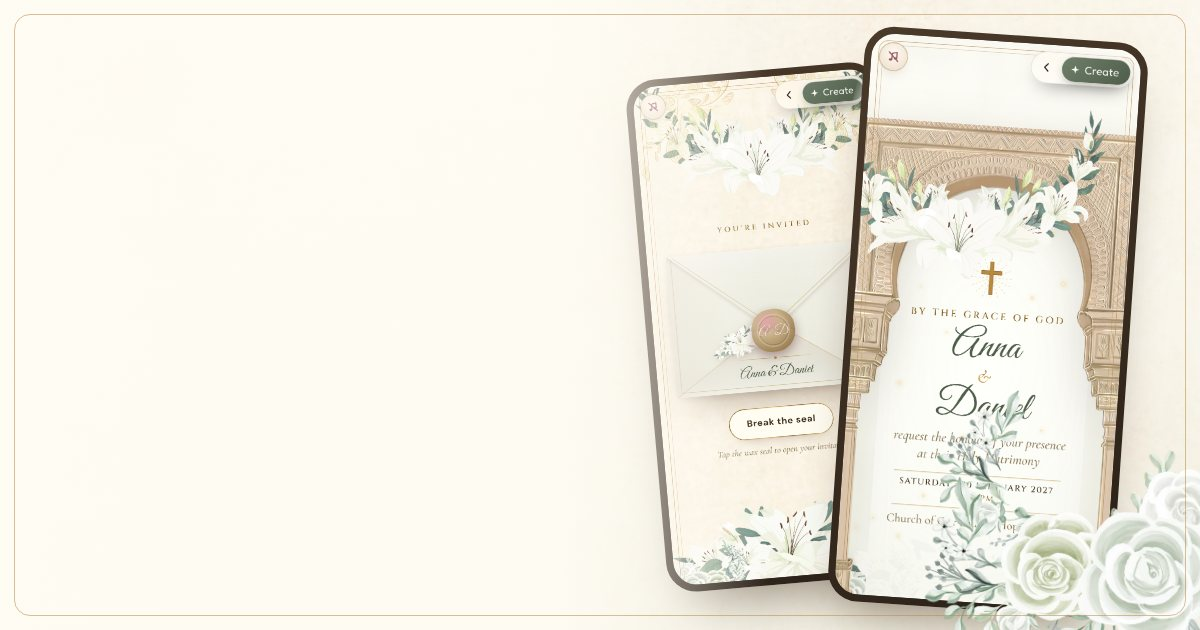
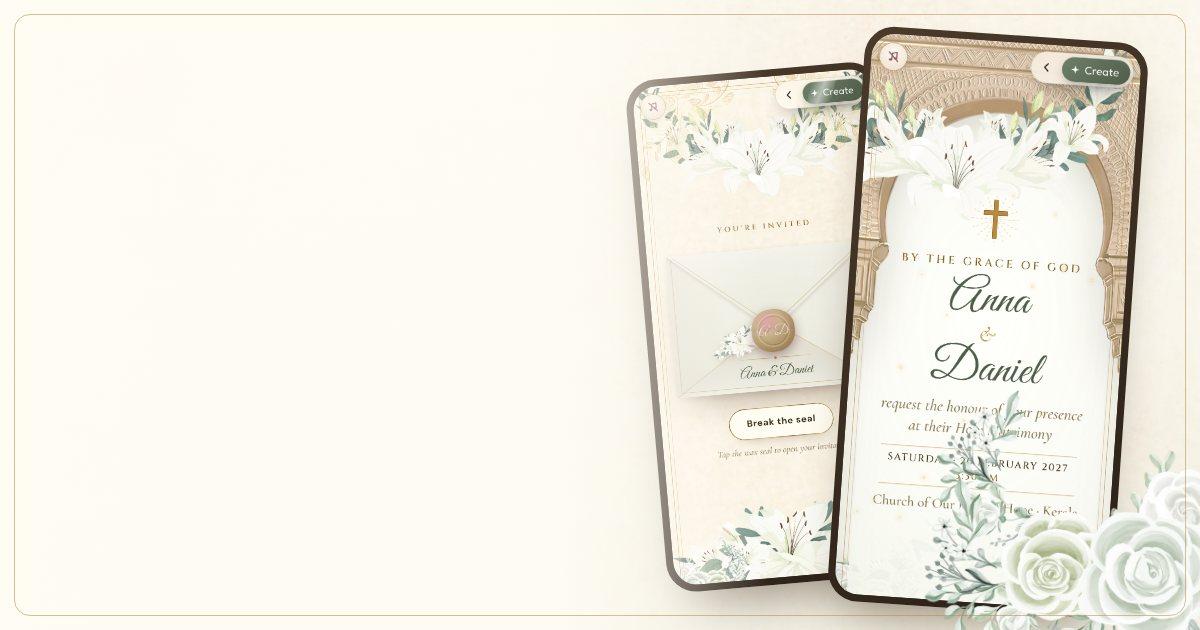
Faith weddings: true full-screen heroes and finales on phones, whole flanking arches on desktop
- Phones: the Nikah and Anand Karaj arches are lengthened (a feathered
  repeat of their plain pillar/side band: mn-arch-tall, sk-arch-tall) so the
  doorway runs the full height of the screen; the names stack and the type
  scales up to fill it. The chapel arch stands full height too.
- The last page wears the hero's whole scene (wall, floor, flanking arches,
  urns) full screen on every device; the goodbye sits in the arch and the
  seal is pressed onto it at a per-faith height.
- Desktop Nikah: the two jharokhas are shown whole (sized to the room beside
  the great arch), with soft fades at top and bottom; urns centred in them.
- Covers regenerated as cover3.* (CDN caches immutably).

Changed region(s): [[0.6783, 0.0302, 0.9558, 0.9349]]

diff --git a/app/(templates)/_faith/Hero.tsx b/app/(templates)/_faith/Hero.tsx
@@ -18,7 +18,7 @@
 // listener writes --fw-hy for a gentle parallax exit; loops pause off screen.
 
 import { useEffect, useMemo, useRef, type ReactNode } from "react";
-import { useWeddingReducedMotion } from "../_wedding";
+import { cdn, useWeddingReducedMotion } from "../_wedding";
 import { seeded, useArt, usePic } from "./art";
 import type { FaithId, Lang, Strings } from "./types";
 
@@ -72,12 +72,22 @@ export interface HeroSceneProps {
 /** The arched card with its copy (the hero; the finale wears a quieter copy of it). */
 export function HeroCard({ faith, s, lang, first, second, guest, dateLine, time, venue, invocation, lazy, as = "h1", copy }: HeroSceneProps) {
   const pic = usePic();
+  const art = useArt();
   const Names = as;
   const high = !lazy;
   return (
     <div className="fh-card">
-      {/* eslint-disable-next-line @next/next/no-img-element, jsx-a11y/alt-text */}
-      <img className="fh-card-bg" {...pic("heroBg", { high, lazy, sizes: "(min-width: 1024px) 560px, 94vw" })} />
+      {art.heroBgTall ? (
+        // Phones get the arch with lengthened pillars, so the doorway runs the full height of the screen.
+        <picture>
+          <source media="(max-width: 1023px)" srcSet={cdn(art.heroBgTall.src)} width={art.heroBgTall.w} height={art.heroBgTall.h} />
+          {/* eslint-disable-next-line jsx-a11y/alt-text */}
+          <img className="fh-card-bg" {...pic("heroBg", { high, lazy, sizes: "(min-width: 1024px) 700px, 100vw" })} />
+        </picture>
+      ) : (
+        // eslint-disable-next-line @next/next/no-img-element, jsx-a11y/alt-text
+        <img className="fh-card-bg" {...pic("heroBg", { high, lazy, sizes: "(min-width: 1024px) 560px, 94vw" })} />
+      )}
       {/* eslint-disable-next-line @next/next/no-img-element, jsx-a11y/alt-text */}
       {faith === "christian" && <img className="fh-crown" {...pic("heroCrown", { high, lazy, sizes: "(min-width: 1024px) 620px, 100vw" })} />}
       <span className="fh-glow is-l" aria-hidden />
@@ -126,14 +136,46 @@ export function HeroCard({ faith, s, lang, first, second, guest, dateLine, time,
   );
 }
 
+/** The faith's full-screen world behind the arch: the wall, the floor, the flanking arches, urns, garlands
+ *  and corner florals (the hero, and the last page, which wears the same scene). */
+export function Scene({ lazy }: { lazy?: boolean }) {
+  const pic = usePic();
+  const art = useArt();
+  const L = lazy ? { lazy: true } : {};
+  return (
+    <>
+      <span className="fw-frame" aria-hidden />
+      <span className="fh-wall" aria-hidden />
+      <span className="fh-floor" aria-hidden />
+      <div className="fh-bank" aria-hidden>
+        {/* eslint-disable-next-line @next/next/no-img-element, jsx-a11y/alt-text */}
+        {art.heroFlank && <img className="fh-flank is-l" {...pic("heroFlank", { ...L, sizes: "40vw" })} />}
+        {/* eslint-disable-next-line @next/next/no-img-element, jsx-a11y/alt-text */}
+        {art.heroFlank && <img className="fh-flank is-r" {...pic("heroFlank", { ...L, sizes: "40vw" })} />}
+        {/* eslint-disable-next-line @next/next/no-img-element, jsx-a11y/alt-text */}
+        {art.heroTop && <img className="fh-top" {...pic("heroTop", { ...(lazy ? L : { high: true }), sizes: "100vw" })} />}
+        {/* eslint-disable-next-line @next/next/no-img-element, jsx-a11y/alt-text */}
+        {art.heroSide && <img className="fh-side is-l" {...pic("heroSide", { ...L, sizes: "22vw" })} />}
+        {/* eslint-disable-next-line @next/next/no-img-element, jsx-a11y/alt-text */}
+        {art.heroSide && <img className="fh-side is-r" {...pic("heroSide", { ...L, sizes: "22vw" })} />}
+        {/* eslint-disable-next-line @next/next/no-img-element, jsx-a11y/alt-text */}
+        {art.heroBank && <img className="fh-base" {...pic("heroBank", { ...L, sizes: "100vw" })} />}
+        {/* eslint-disable-next-line @next/next/no-img-element, jsx-a11y/alt-text */}
+        <img className="fh-corner is-l" {...pic("corner", { ...L, sizes: "30vw" })} />
+        {/* eslint-disable-next-line @next/next/no-img-element, jsx-a11y/alt-text */}
+        <img className="fh-corner is-r" {...pic("cornerR", { ...L, sizes: "30vw" })} />
+      </div>
+
+    </>
+  );
+}
+
 export interface HeroProps extends Omit<HeroSceneProps, "lazy" | "as"> {
   open: boolean;
 }
 
 export default function Hero(p: HeroProps) {
   const { open, faith, s } = p;
-  const pic = usePic();
-  const art = useArt();
   const ref = useRef<HTMLElement>(null);
   const reduce = useWeddingReducedMotion();
   const motes = useMemo(() => {
@@ -169,27 +211,7 @@ export default function Hero(p: HeroProps) {
 
   return (
     <header ref={ref} className={`fw-hero fh-hero is-${faith}${open ? " is-open" : ""}`}>
-      <span className="fw-frame" aria-hidden />
-      <span className="fh-wall" aria-hidden />
-      <span className="fh-floor" aria-hidden />
-      <div className="fh-bank" aria-hidden>
-        {/* eslint-disable-next-line @next/next/no-img-element, jsx-a11y/alt-text */}
-        {art.heroFlank && <img className="fh-flank is-l" {...pic("heroFlank", { sizes: "40vw" })} />}
-        {/* eslint-disable-next-line @next/next/no-img-element, jsx-a11y/alt-text */}
-        {art.heroFlank && <img className="fh-flank is-r" {...pic("heroFlank", { sizes: "40vw" })} />}
-        {/* eslint-disable-next-line @next/next/no-img-element, jsx-a11y/alt-text */}
-        {art.heroTop && <img className="fh-top" {...pic("heroTop", { high: true, sizes: "100vw" })} />}
-        {/* eslint-disable-next-line @next/next/no-img-element, jsx-a11y/alt-text */}
-        {art.heroSide && <img className="fh-side is-l" {...pic("heroSide", { sizes: "22vw" })} />}
-        {/* eslint-disable-next-line @next/next/no-img-element, jsx-a11y/alt-text */}
-        {art.heroSide && <img className="fh-side is-r" {...pic("heroSide", { sizes: "22vw" })} />}
-        {/* eslint-disable-next-line @next/next/no-img-element, jsx-a11y/alt-text */}
-        {art.heroBank && <img className="fh-base" {...pic("heroBank", { sizes: "100vw" })} />}
-        {/* eslint-disable-next-line @next/next/no-img-element, jsx-a11y/alt-text */}
-        <img className="fh-corner is-l" {...pic("corner", { sizes: "30vw" })} />
-        {/* eslint-disable-next-line @next/next/no-img-element, jsx-a11y/alt-text */}
-        <img className="fh-corner is-r" {...pic("cornerR", { sizes: "30vw" })} />
-      </div>
+      <Scene />
 
       <div className="fh-stage">
         <div className="fh-par">

diff --git a/app/(templates)/_faith/faiths/muslim.ts b/app/(templates)/_faith/faiths/muslim.ts
@@ -153,24 +153,43 @@ const css = `
    floor at full height, flanked on wide screens by two cream jharokha arches with urns of roses in them. */
 .fh-hero.is-muslim { --fh-w: min(100vw, calc((100svh - var(--fh-top)) * .806)); --fh-wall-bg: #dce3cf; --fh-wall: ${JAALI} center top / 72px 72px repeat, radial-gradient(120% 90% at 50% 35%, #eff2e6 0%, #dde4d0 55%, #c8d3b7 100%); --fh-floor: linear-gradient(180deg, rgba(246,243,231,0), #f1ecda 30%, #e6dec6); --fh-floor-h: 13svh; --fh-flank-h: 76svh; }
 .fh-hero.is-muslim .fh-top { width: max(100%, 980px); top: -2%; opacity: 0; }
-/* the panels' straight top edges melt into the jaali wall */
-.fh-hero.is-muslim .fh-card-bg { -webkit-mask-image: linear-gradient(180deg, transparent 0, #000 7%); mask-image: linear-gradient(180deg, transparent 0, #000 7%); }
-.fh-hero.is-muslim .fh-flank { -webkit-mask-image: linear-gradient(180deg, transparent 0, #000 16%); mask-image: linear-gradient(180deg, transparent 0, #000 16%); }
+/* the panels' straight top and bottom edges melt softly into the wall and the floor */
+.fh-hero.is-muslim .fh-card-bg { -webkit-mask-image: linear-gradient(180deg, transparent 0, #000 6%, #000 97%, rgba(0,0,0,.6) 100%); mask-image: linear-gradient(180deg, transparent 0, #000 6%, #000 97%, rgba(0,0,0,.6) 100%); }
+.fh-hero.is-muslim .fh-flank { -webkit-mask-image: linear-gradient(180deg, transparent 0, #000 7%, #000 93%, transparent 100%); mask-image: linear-gradient(180deg, transparent 0, #000 7%, #000 93%, transparent 100%); }
 .fh-hero.is-muslim.is-open .fh-top { opacity: .95; }
+/* Phones: the arch with lengthened pillars stands the full height of the screen (the hero and the last page). */
 @media (max-width: 1023px) {
-  .fh-hero.is-muslim { --fh-top: 46px; --fh-w: min(124vw, calc((100svh - var(--fh-top)) * .806)); }
-  .fh-hero.is-muslim .fh-top { width: max(150vw, 600px); top: -1%; }
+  .fh-root .fh-hero.is-muslim { --fh-top: 0px; --fh-w: max(calc(100svh * .433), 92vw); }
+  .fh-root .fh-hero.is-muslim .fh-top { display: none; }
+  .fh-root .fh-hero.is-muslim .fh-card { --fh-ar: 928 / 2143; --fh-in-t: 6%; --fh-in-b: 29%; --fh-in-x: 16.5%; --fh-mask: url("/wedding-v3/faith-nikah/mn-arch-tall.webp"); }
+  .fh-root .fh-hero.is-muslim .fh-names { --fh-names: 15.5cqw; margin-top: 2.4cqw; flex-direction: column; align-items: center; line-height: 1.08; }
+  .fh-root .fh-hero.is-muslim .fh-amp { font-size: 7cqw; margin: -.1em 0; }
+  .fh-root .fh-hero.is-muslim .fh-inv.is-muslim { width: 36cqw; }
+  .fh-root .fh-hero.is-muslim .fh-eyebrow { font-size: 3.3cqw; margin-top: 4cqw; letter-spacing: .14em; }
+  .fh-root .fh-hero.is-muslim .fh-sub { font-size: 5cqw; max-width: 64cqw; margin-top: 2.4cqw; }
+  .fh-root .fh-hero.is-muslim .fh-date { font-size: 3.5cqw; letter-spacing: .09em; margin-top: 4.5cqw; padding: 2.6cqw 2cqw; white-space: nowrap; }
+  .fh-root .fh-hero.is-muslim .fh-venue { font-size: 4.2cqw; margin-top: 2.8cqw; }
+  .fh-root .fh-hero.is-muslim .fh-figure { width: 76%; bottom: .5%; }
+  .fh-root .fh-hero.is-muslim .fh-glow { top: 11.4%; width: 20%; }
+  .fh-root .fh-hero.is-muslim .fh-card-bg { -webkit-mask-image: none; mask-image: none; }
+  .fh-root .fh-fin.is-muslim { --fh-seal-b: 23%; }
+  .fh-root .fh-fin.is-muslim .fh-card { --fh-in-b: 37%; }
 }
 @media (min-width: 1024px) {
   .fh-hero.is-muslim .fh-top { display: none; }
-  .fh-hero.is-muslim .fh-flank { display: block; }
+  /* the two jharokhas are shown whole: as wide as the room beside the great arch allows (tucked 9% behind it) */
+  .fh-hero.is-muslim { --fh-fw: min(calc((100vw - var(--fh-w)) / 2 + var(--fh-w) * .09 - 18px), calc(var(--fh-flank-h) * .716)); }
+  .fh-hero.is-muslim .fh-flank { display: block; width: var(--fh-fw); height: auto; bottom: 1.5svh; filter: drop-shadow(0 18px 26px rgba(70,80,50,.16)); }
   .fh-hero.is-muslim .fh-flank.is-l { right: calc(50% + var(--fh-w) * .41); }
   .fh-hero.is-muslim .fh-flank.is-r { left: calc(50% + var(--fh-w) * .41); }
-  .fh-hero.is-muslim .fh-side { z-index: 2; height: 34svh; width: auto; }
-  .fh-hero.is-muslim .fh-side.is-l { left: auto; right: calc(50% + var(--fh-w) * .41 + 15.5svh); }
-  .fh-hero.is-muslim .fh-side.is-r { right: auto; left: calc(50% + var(--fh-w) * .41 + 15.5svh); }
+  .fh-hero.is-muslim .fh-side { z-index: 2; height: min(34svh, calc(var(--fh-fw) * .62)); width: auto; bottom: 1.5svh; }
+  .fh-hero.is-muslim .fh-side.is-l { left: auto; right: calc(50% + var(--fh-w) * .41 + var(--fh-fw) / 2 - min(34svh, calc(var(--fh-fw) * .62)) * .333); }
+  .fh-hero.is-muslim .fh-side.is-r { right: auto; left: calc(50% + var(--fh-w) * .41 + var(--fh-fw) / 2 - min(34svh, calc(var(--fh-fw) * .62)) * .333); }
   .fh-hero.is-muslim .fh-corner { width: clamp(150px, 13vw, 240px); }
 }
+/* the last page: the goodbye sits higher in the arch, the seal is pressed just above the couple */
+.fh-root .fh-fin.is-muslim { --fh-seal-b: 33%; }
+.fh-root .fh-fin.is-muslim .fh-card { --fh-in-b: 46%; }
 /* the Mughal arch: the Bismillah and the names in its field, the couple seated at its foot */
 .fh-hero.is-muslim .fh-card { --fh-ar: 928 / 1152; --fh-arn: .806; --fh-in-t: 8%; --fh-in-b: 38%; --fh-in-x: 16.5%; --fh-reserve: 136px; --fh-mask: ${ARCH_MASK}; }
 .fh-hero.is-muslim .fh-names { flex-direction: row; flex-wrap: wrap; justify-content: center; align-items: baseline; column-gap: .22em; --fh-names: 10.6cqw; }
@@ -224,6 +243,7 @@ export const MUSLIM: FaithProfile = {
     rsvpFigure: A["mn-couple-seated-600"],
     heroBg: A["mn-arch"],
     heroBgSm: A["mn-arch"],
+    heroBgTall: A["mn-arch-tall"],
     heroFigure: A["mn-couple-seated"],
     heroFigureSm: A["mn-couple-seated-600"],
     heroSide: A["mn-urn"],

diff --git a/app/(templates)/_faith/faiths/sikh.ts b/app/(templates)/_faith/faiths/sikh.ts
@@ -152,6 +152,8 @@ const css = `
 /* the arch's straight edges melt into the wall (top on every screen, the sides too on wide ones) */
 .fh-hero.is-sikh .fh-card-bg { filter: none; -webkit-mask-image: linear-gradient(90deg, transparent 0, #000 5%, #000 95%, transparent 100%), linear-gradient(180deg, transparent 0, #000 7%); -webkit-mask-composite: source-in; mask-image: linear-gradient(90deg, transparent 0, #000 5%, #000 95%, transparent 100%), linear-gradient(180deg, transparent 0, #000 7%); mask-composite: intersect; }
 @media (max-width: 1023px) { .fh-hero.is-sikh { --fh-top: 64px; --fh-w: min(114vw, calc((100svh - var(--fh-top)) * .714)); } .fh-hero.is-sikh .fh-card-bg { -webkit-mask-image: linear-gradient(180deg, transparent 0, #000 6%); mask-image: linear-gradient(180deg, transparent 0, #000 6%); } }
+.fh-root .fh-fin.is-sikh { --fh-seal-b: 35%; }
+.fh-root .fh-fin.is-sikh .fh-card { --fh-in-b: 53%; }
 /* the arch: Ik Onkar, the Fateh and the names live in its ivory field, above the gutka stand */
 .fh-hero.is-sikh .fh-card { --fh-ar: 1200 / 1680; --fh-arn: .714; --fh-in-t: 12.5%; --fh-in-b: 36.5%; --fh-in-x: 15%; --fh-reserve: 140px; --fh-mask: ${ARCH_MASK}; }
 .fh-hero.is-sikh .fh-names { --fh-names: 10.4cqw; }
@@ -185,6 +187,22 @@ const css = `
   .fh-hero.is-sikh .fh-corner { width: clamp(170px, 16vw, 280px); }
   .fh-hero.is-sikh .fh-base { width: min(96vw, 1400px); --fh-base-o: .38; }
 }
+/* Phones: the arch with lengthened sides stands the full height of the screen (the hero and the last page). */
+@media (max-width: 1023px) {
+  .fh-root .fh-hero.is-sikh { --fh-top: 0px; --fh-w: max(calc(100svh * .431), 92vw); }
+  .fh-root .fh-hero.is-sikh .fh-top { display: none; }
+  .fh-root .fh-hero.is-sikh .fh-card { --fh-ar: 1200 / 2783; --fh-in-t: 9%; --fh-in-b: 21%; --fh-in-x: 15%; --fh-mask: url("/wedding-v3/faith-sikh/sk-arch-tall.webp"); }
+  .fh-root .fh-hero.is-sikh .fh-card-bg { -webkit-mask-image: none; mask-image: none; }
+  .fh-root .fh-hero.is-sikh .fh-inv.is-sikh { font-size: 19cqw; }
+  .fh-root .fh-hero.is-sikh .fh-greet { font-size: 2.5cqw; letter-spacing: .03em; margin-top: 2cqw; white-space: nowrap; }
+  .fh-root .fh-hero.is-sikh .fh-eyebrow { font-size: 3.1cqw; letter-spacing: .1em; margin-top: 3.4cqw; white-space: nowrap; }
+  .fh-root .fh-hero.is-sikh .fh-names { --fh-names: 15cqw; margin-top: 2.4cqw; }
+  .fh-root .fh-hero.is-sikh .fh-sub { font-size: 5cqw; margin-top: 2.4cqw; }
+  .fh-root .fh-hero.is-sikh .fh-date { font-size: 3.5cqw; letter-spacing: .09em; margin-top: 4.5cqw; padding: 2.6cqw 2cqw; white-space: nowrap; }
+  .fh-root .fh-hero.is-sikh .fh-venue { font-size: 4.2cqw; margin-top: 2.6cqw; }
+  .fh-root .fh-fin.is-sikh { --fh-seal-b: 27%; }
+  .fh-root .fh-fin.is-sikh .fh-card { --fh-in-b: 40%; }
+}
 `;
 
 export const SIKH: FaithProfile = {
@@ -206,6 +224,7 @@ export const SIKH: FaithProfile = {
     rsvpFigure: A["sk-temple-gold"],
     heroBg: A["sk-arch"],
     heroBgSm: A["sk-arch-720"],
+    heroBgTall: A["sk-arch-tall"],
     heroTop: A["sk-peony-garland"],
     envTop: A["sk-peony-garland"],
     envBank: A["sk-temple-gold"],

diff --git a/app/(templates)/_faith/Finale.tsx b/app/(templates)/_faith/Finale.tsx
@@ -1,17 +1,17 @@
 "use client";
 
 // ─── The finale: the last page of the suite, sealed ─────────────────────────
-// The hero's arched card again (quieter: no guest line), the faith's corners
-// at the foot. When the page is 45 % on screen a wax seal is pressed onto the
-// card (the faith's word — ਅਨੰਦ ਕਾਰਜ · نکاح · ✝ — scale 1.6 → 1 with a soft
+// The hero's whole scene again, full screen (the faith's wall, floor and
+// flanking arches), the arch at full height with the goodbye inside it (no
+// guest line). When the page is 45 % on screen a wax seal is pressed onto the
+// arch (the faith's word — ਅਨੰਦ ਕਾਰਜ · نکاح · ✝ — scale 1.6 → 1 with a soft
 // squash, then a ring of light), then the closing words, the names and the
 // hashtag, sized so the whole goodbye fits one screen. Reduced motion: the
 // seal is simply there.
 
 import { useEffect, useRef, useState } from "react";
 import { Reveal, useWeddingReducedMotion } from "../_wedding";
-import { usePic } from "./art";
-import { HeroCard } from "./Hero";
+import { HeroCard, Scene } from "./Hero";
 import type { FaithId, Lang, Strings } from "./types";
 
 export interface FinaleProps {
@@ -30,7 +30,6 @@ export interface FinaleProps {
 
 export default function Finale({ faith, s, sealWord, seal, endLine, first, second, hashtag, lang, invocation }: FinaleProps) {
   const closing = s.closing;
-  const pic = usePic();
   const ref = useRef<HTMLElement>(null);
   const reduce = useWeddingReducedMotion();
   const [on, setOn] = useState(false);
@@ -57,17 +56,11 @@ export default function Finale({ faith, s, sealWord, seal, endLine, first, secon
   }, []);
 
   return (
-    <section ref={ref} className={`fw-finale${on ? " is-on" : ""}${pressed || reduce ? " is-pressed" : ""}`} aria-label={seal}>
-      <span className="fw-frame" aria-hidden />
-      <div className="fw-fin-bank" aria-hidden>
-        {/* eslint-disable-next-line @next/next/no-img-element, jsx-a11y/alt-text */}
-        <img className="fh-corner is-l" {...pic("corner", { lazy: true, sizes: "30vw" })} />
-        {/* eslint-disable-next-line @next/next/no-img-element, jsx-a11y/alt-text */}
-        <img className="fh-corner is-r" {...pic("cornerR", { lazy: true, sizes: "30vw" })} />
-      </div>
-      <div className="fw-fin-in">
-        <div className="fw-fin-stage">
-          <div className={`fh-fin-card fh-hero is-${faith} is-open`}>
+    <section ref={ref} className={`fw-finale fw-hero fh-hero fh-fin is-${faith} is-open${on ? " is-on" : ""}${pressed || reduce ? " is-pressed" : ""}`} aria-label={seal}>
+      <Scene lazy />
+      <div className="fh-stage">
+        <div className="fw-fin-stage fh-par">
+          <div className="fh-fin-card">
             <HeroCard
               faith={faith}
               s={s}

diff --git a/app/(templates)/_faith/faiths/christian.ts b/app/(templates)/_faith/faiths/christian.ts
@@ -86,8 +86,10 @@ const css = `
 /* Full screen: a soft sky over ivory and sage, a pale stone floor; the chapel arch stands at full height. */
 .fh-hero.is-christian { --fh-top: 64px; --fh-w: min(100vw, calc((100svh - var(--fh-top)) * .5625)); --fh-wall-bg: #f3f4ee; --fh-wall: radial-gradient(75% 60% at 50% 36%, rgba(255,254,248,.96), rgba(255,254,248,.55) 60%, rgba(255,254,248,.35) 100%), linear-gradient(180deg, rgba(250,248,238,.7), rgba(236,239,226,.75)), url("${cdn(A["ch-cloud"].src)}") center / cover no-repeat, #f3f2ea; --fh-floor: linear-gradient(180deg, rgba(240,241,233,0), #ebece2 35%, #dfe2d4); --fh-floor-h: 12svh; }
 @media (max-width: 1023px) {
-  .fh-hero.is-christian { --fh-top: 74px; --fh-w: min(104vw, calc((100svh - var(--fh-top)) * .5625)); }
-  .fh-hero.is-christian .fh-card { --fh-in-x: 20%; }
+  /* the chapel stands the full height of the phone; its outer stonework runs off the edges */
+  .fh-hero.is-christian { --fh-top: 0px; --fh-w: max(calc(100svh * .5625), 100vw); }
+  .fh-hero.is-christian .fh-card { --fh-in-x: 22%; --fh-in-t: 20%; }
+  .fh-hero.is-christian .fh-crown { top: -1%; }
   .fh-hero.is-christian .fh-sub { font-size: 4.5cqw; }
 }
 /* wide screens: a cloister: two smaller chapel arches either side of the great one */
@@ -98,6 +100,8 @@ const css = `
   .fh-hero.is-christian .fh-flank.is-l { right: calc(50% + var(--fh-w) * .56); }
   .fh-hero.is-christian .fh-flank.is-r { left: calc(50% + var(--fh-w) * .56); }
 }
+.fh-root .fh-fin.is-christian { --fh-seal-b: 16%; }
+.fh-root .fh-fin.is-christian .fh-card { --fh-in-b: 30%; }
 /* the chapel arch: an ivory light inside the carved stone, lilies over its crown */
 .fh-hero.is-christian .fh-card { --fh-ar: 900 / 1600; --fh-arn: .5625; --fh-in-t: 19%; --fh-in-b: 12%; --fh-in-x: 18%; --fh-reserve: 150px; --fh-mask: ${ARCH_MASK}; }
 .fh-hero.is-christian .fh-card::before { content: ""; position: absolute; z-index: 0; left: 13%; right: 13%; top: 7%; bottom: 1%; border-radius: 999px 999px 0 0; background: radial-gradient(85% 62% at 50% 44%, #fffffb, rgba(252,252,246,.97) 55%, rgba(246,247,239,.93) 88%); box-shadow: inset 0 0 40px rgba(255,255,255,.6); }

diff --git a/app/(templates)/_faith/assets.ts b/app/(templates)/_faith/assets.ts
@@ -14,6 +14,8 @@ export interface WeddingAsset { src: string; w: number; h: number }
 export const FAITH_ASSETS = {
   "faith-nikah": {
     "mn-arch": { src: "/wedding-v3/faith-nikah/mn-arch.webp", w: 928, h: 1152 },
+    /** Derived: the same arch with its pillar columns lengthened (a feathered repeat of the plain column band), for phones' full height. */
+    "mn-arch-tall": { src: "/wedding-v3/faith-nikah/mn-arch-tall.webp", w: 928, h: 2143 },
     "mn-rose-corner": { src: "/wedding-v3/faith-nikah/mn-rose-corner.webp", w: 380, h: 520 },
     "mn-rose-side": { src: "/wedding-v3/faith-nikah/mn-rose-side.webp", w: 200, h: 520 },
     "mn-couple-seated": { src: "/wedding-v3/faith-nikah/mn-couple-seated.webp", w: 1200, h: 918 },
@@ -29,6 +31,8 @@ export const FAITH_ASSETS = {
   },
   "faith-sikh": {
     "sk-arch": { src: "/wedding-v3/faith-sikh/sk-arch.webp", w: 1200, h: 1680 },
+    /** Derived: the arch with its sides lengthened (a feathered repeat of the plain band below the lanterns), for phones' full height. */
+    "sk-arch-tall": { src: "/wedding-v3/faith-sikh/sk-arch-tall.webp", w: 1200, h: 2783 },
     "sk-arch-720": { src: "/wedding-v3/faith-sikh/sk-arch-720.webp", w: 720, h: 1008 },
     "sk-temple-saffron": { src: "/wedding-v3/faith-sikh/sk-temple-saffron.webp", w: 1200, h: 810 },
     "sk-temple-gold": { src: "/wedding-v3/faith-sikh/sk-temple-gold.webp", w: 1041, h: 553 },

diff --git a/app/(templates)/_faith/css.ts b/app/(templates)/_faith/css.ts
@@ -718,9 +718,10 @@ body:has(.fw-root[data-wk-theme="powder"]) .vm-icon-eq i { background: #49597d; 
 .fw-ev-medal::after { content: ""; position: absolute; inset: 10%; border-radius: 50%; border: 1px dashed rgba(184,140,72,.45); }
 /* the RSVP window's figure, and the finale's card */
 .fh-rw-figure { height: auto !important; width: 86%; bottom: 9% !important; }
-.fw-fin-stage { width: auto; aspect-ratio: auto; display: flex; justify-content: center; margin-bottom: 76px; }
-.fh-fin-card .fh-card { --fh-w: min(90vw, 470px, calc((100svh - 150px) * var(--fh-arn, .714))); }
-.fh-fin-card .fh-card-bg { border-radius: 14px; }
+/* The last page wears the hero's whole scene, full screen; the seal is pressed onto the arch (--fh-seal-b per faith). */
+.fw-finale.fh-fin { padding: 0; justify-content: flex-end; text-align: center; }
+.fh-fin .fw-fin-stage { position: relative; width: auto; aspect-ratio: auto; display: flex; justify-content: center; margin: 0; }
+.fh-fin .fw-wax { bottom: var(--fh-seal-b, 22%); }
 .fh-fin-card .fh-names { font-size: var(--fh-names, 12.6cqw); }
 .fh-fin-card .fw-fin-rule { width: 60%; margin: 2cqw auto 0; }
 .fh-fin-card .fw-hashtag { margin-top: 2.6cqw; font-size: max(10px, 2.6cqw); }

diff --git a/app/(templates)/sikh-wedding-invitation/config.ts b/app/(templates)/sikh-wedding-invitation/config.ts
@@ -11,7 +11,7 @@ export const config: TemplatePageConfig = {
   title: "Anand Karaj Wedding Invitation ☬ — Sikh Wedding, Every Function",
   description:
     "A Sikh wedding invitation in ivory and gold: guests break a wax seal on an envelope addressed to them, and the card opens onto the arch over Sri Guru Granth Sahib Ji with Ik Onkar in gold foil. Then every function from the Roka and Akhand Path to the Jaggo, the four Laavan and the Doli, with maps and dress codes, English and Punjabi (Gurmukhi) side by side, 40 photos, RSVP per function, who to call, a blessings wall. The AI writes it.",
-  coverImage: `${WEDDING_ART_CDN}/faith-sikh/cover2.webp`,
+  coverImage: `${WEDDING_ART_CDN}/faith-sikh/cover3.webp`,
   emoji: "🌼",
   color: "from-amber-100 to-yellow-200",
   previewText: "an Anand Karaj invitation, just for you 🌼",

diff --git a/app/(templates)/christian-wedding-invitation/config.ts b/app/(templates)/christian-wedding-invitation/config.ts
@@ -11,7 +11,7 @@ export const config: TemplatePageConfig = {
   title: "Holy Matrimony Wedding Invitation ✝ — Christian Church Wedding",
   description:
     "A Christian wedding invitation in ivory, sage and gold: guests break a wax seal on an envelope addressed to them, and the card opens onto a carved chapel arch crowned with white lilies, the cross in gold and a Bible verse. Then the engagement, the bridal shower, the Holy Matrimony and the reception, with maps and dress codes, 40 photos, RSVP per event, who to call and a blessings wall. The AI writes it.",
-  coverImage: `${WEDDING_ART_CDN}/faith-christian/cover2.webp`,
+  coverImage: `${WEDDING_ART_CDN}/faith-christian/cover3.webp`,
   emoji: "🕊",
   color: "from-stone-100 to-emerald-100",
   previewText: "a church wedding invitation, just for you 🕊",

diff --git a/app/(templates)/muslim-wedding-invitation/config.ts b/app/(templates)/muslim-wedding-invitation/config.ts
@@ -11,7 +11,7 @@ export const config: TemplatePageConfig = {
   title: "Nikah Wedding Invitation ☪ — Muslim Wedding, Every Function",
   description:
     "A Muslim wedding invitation under a sage-and-gold Mughal arch: guests break a wax seal on an envelope addressed to them, gold lanterns glow and the Bismillah opens the card, the couple seated at its foot. Then every function from the Mangni and Manjha to the Mehndi, the Nikah, the Rukhsati and the Walima, with maps and dress codes, English and Urdu side by side, 40 photos, RSVP per function and a duas wall. The AI writes it.",
-  coverImage: `${WEDDING_ART_CDN}/faith-nikah/cover2.webp`,
+  coverImage: `${WEDDING_ART_CDN}/faith-nikah/cover3.webp`,
   emoji: "🌙",
   color: "from-emerald-100 to-stone-200",
   previewText: "a Nikah invitation, just for you 🌙",

diff --git a/app/(templates)/_faith/types.ts b/app/(templates)/_faith/types.ts
@@ -28,7 +28,7 @@ export type CoreRole =
   /** the hero: a full arched card the copy sits inside */
   | "heroBg" | "heroBgSm";
 /** Art only some faiths have. */
-export type OptRole = "heroFigure" | "heroFigureSm" | "heroTop" | "heroSide" | "heroBank" | "invocation" | "envTop" | "envBank" | "heroCrown" | "heroFlank";
+export type OptRole = "heroFigure" | "heroFigureSm" | "heroTop" | "heroSide" | "heroBank" | "invocation" | "envTop" | "envBank" | "heroCrown" | "heroFlank" | "heroBgTall";
 export type ArtRole = CoreRole | OptRole;
 export type FaithArt = Record<CoreRole, WeddingAsset> & Partial<Record<OptRole, WeddingAsset>>;
 
